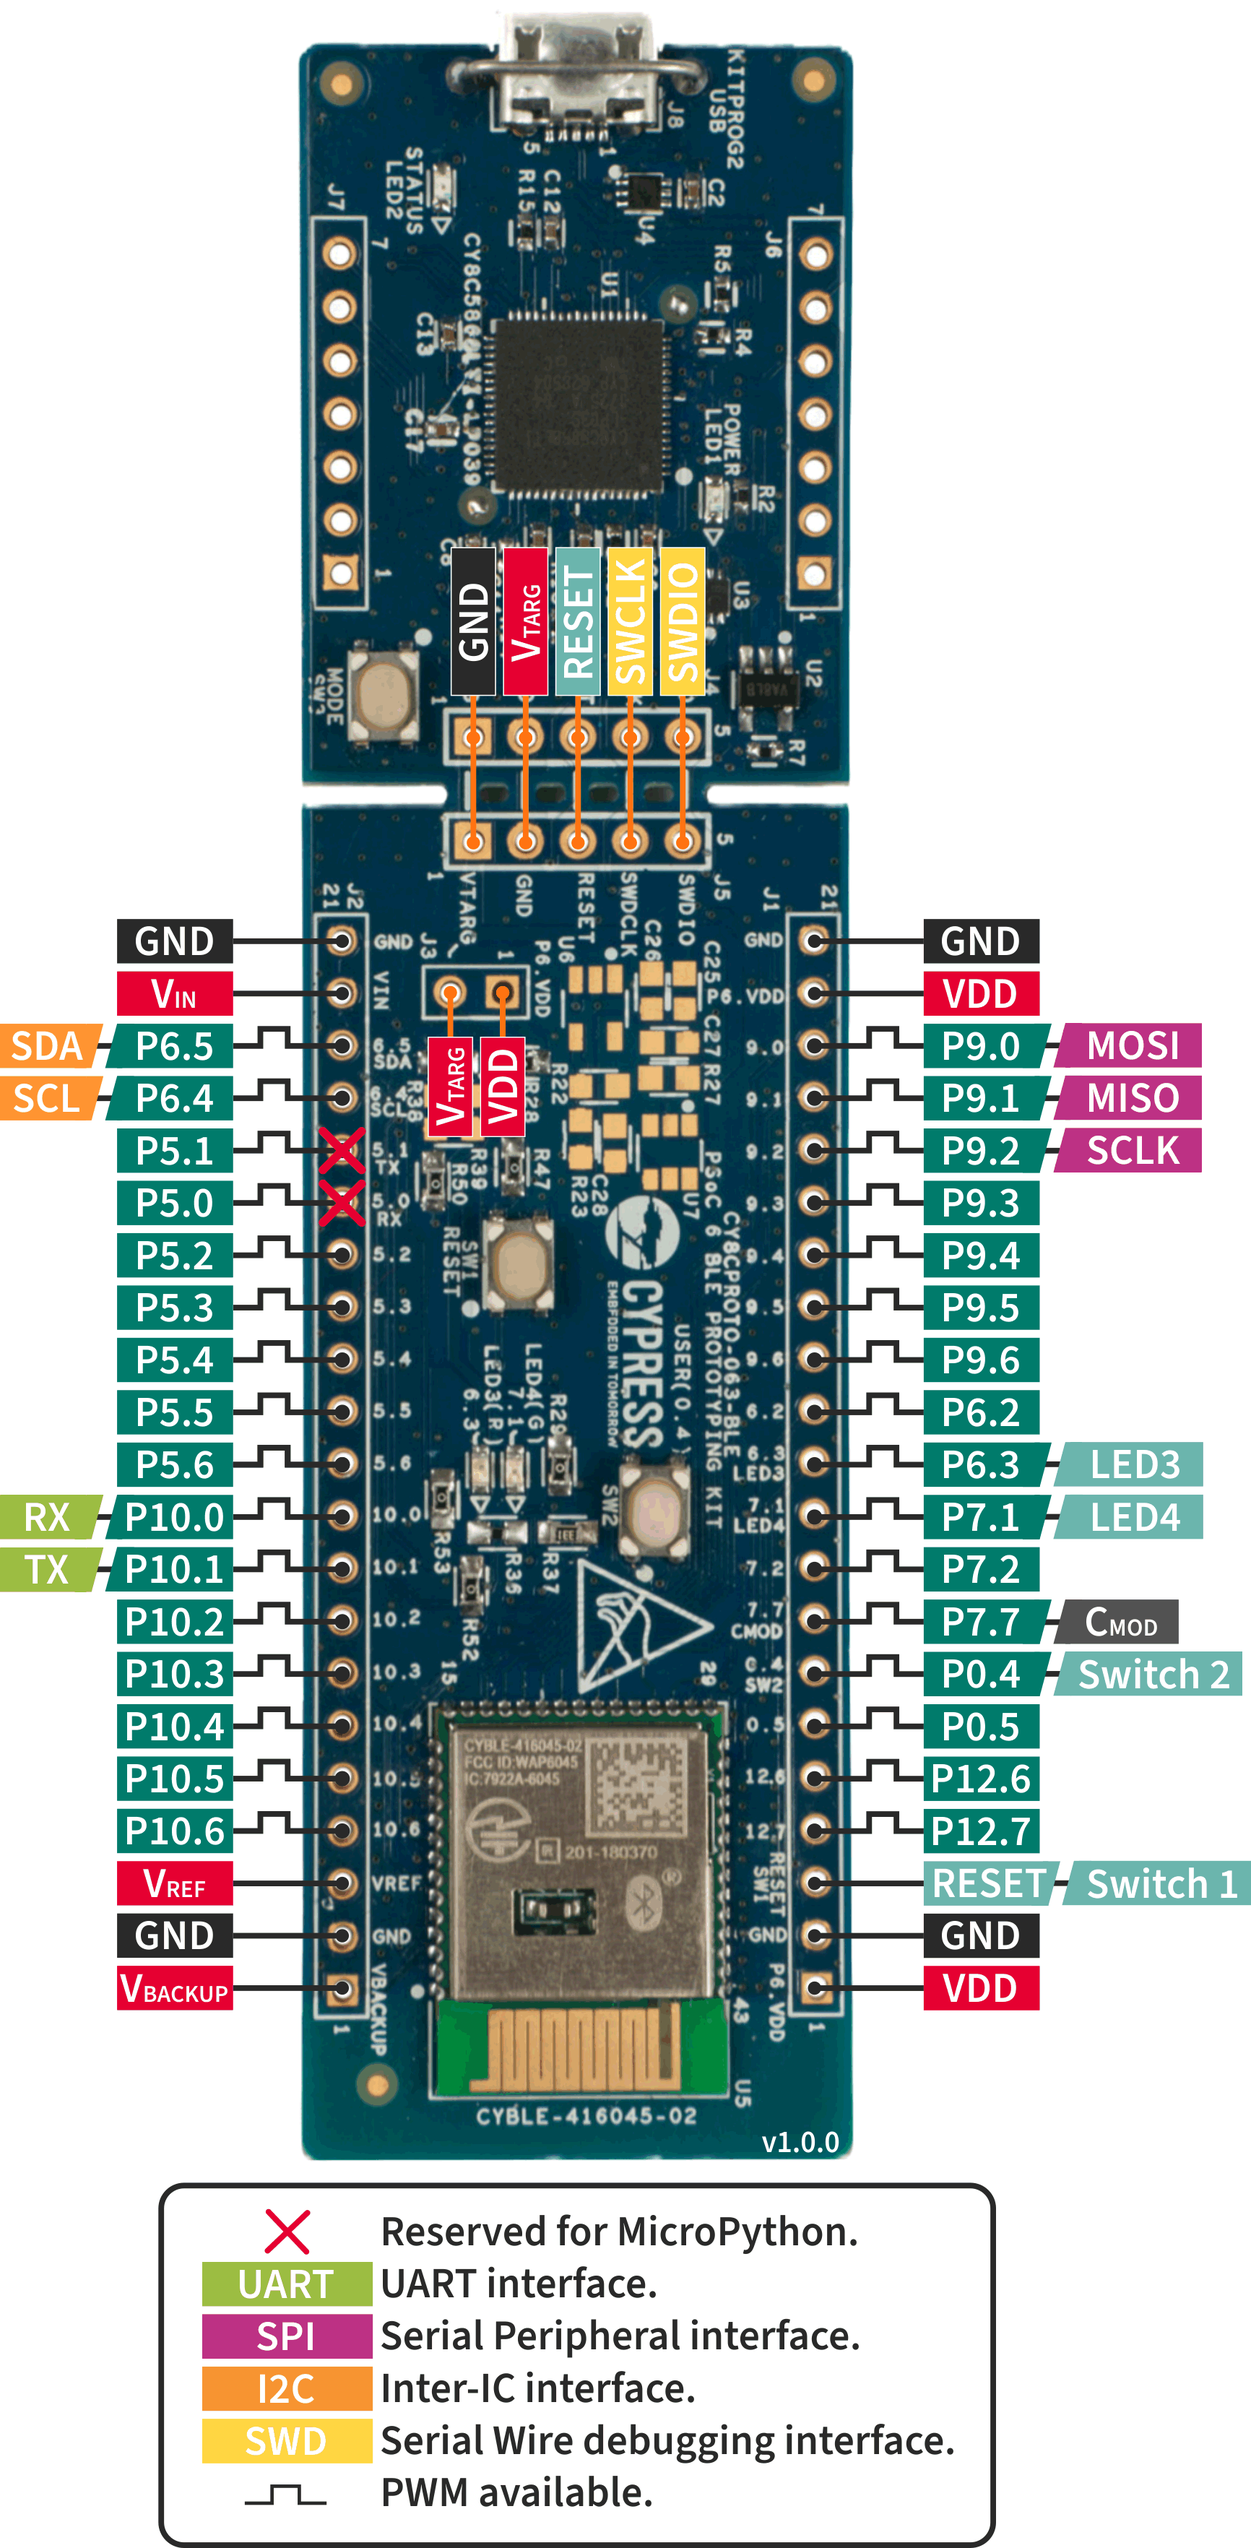
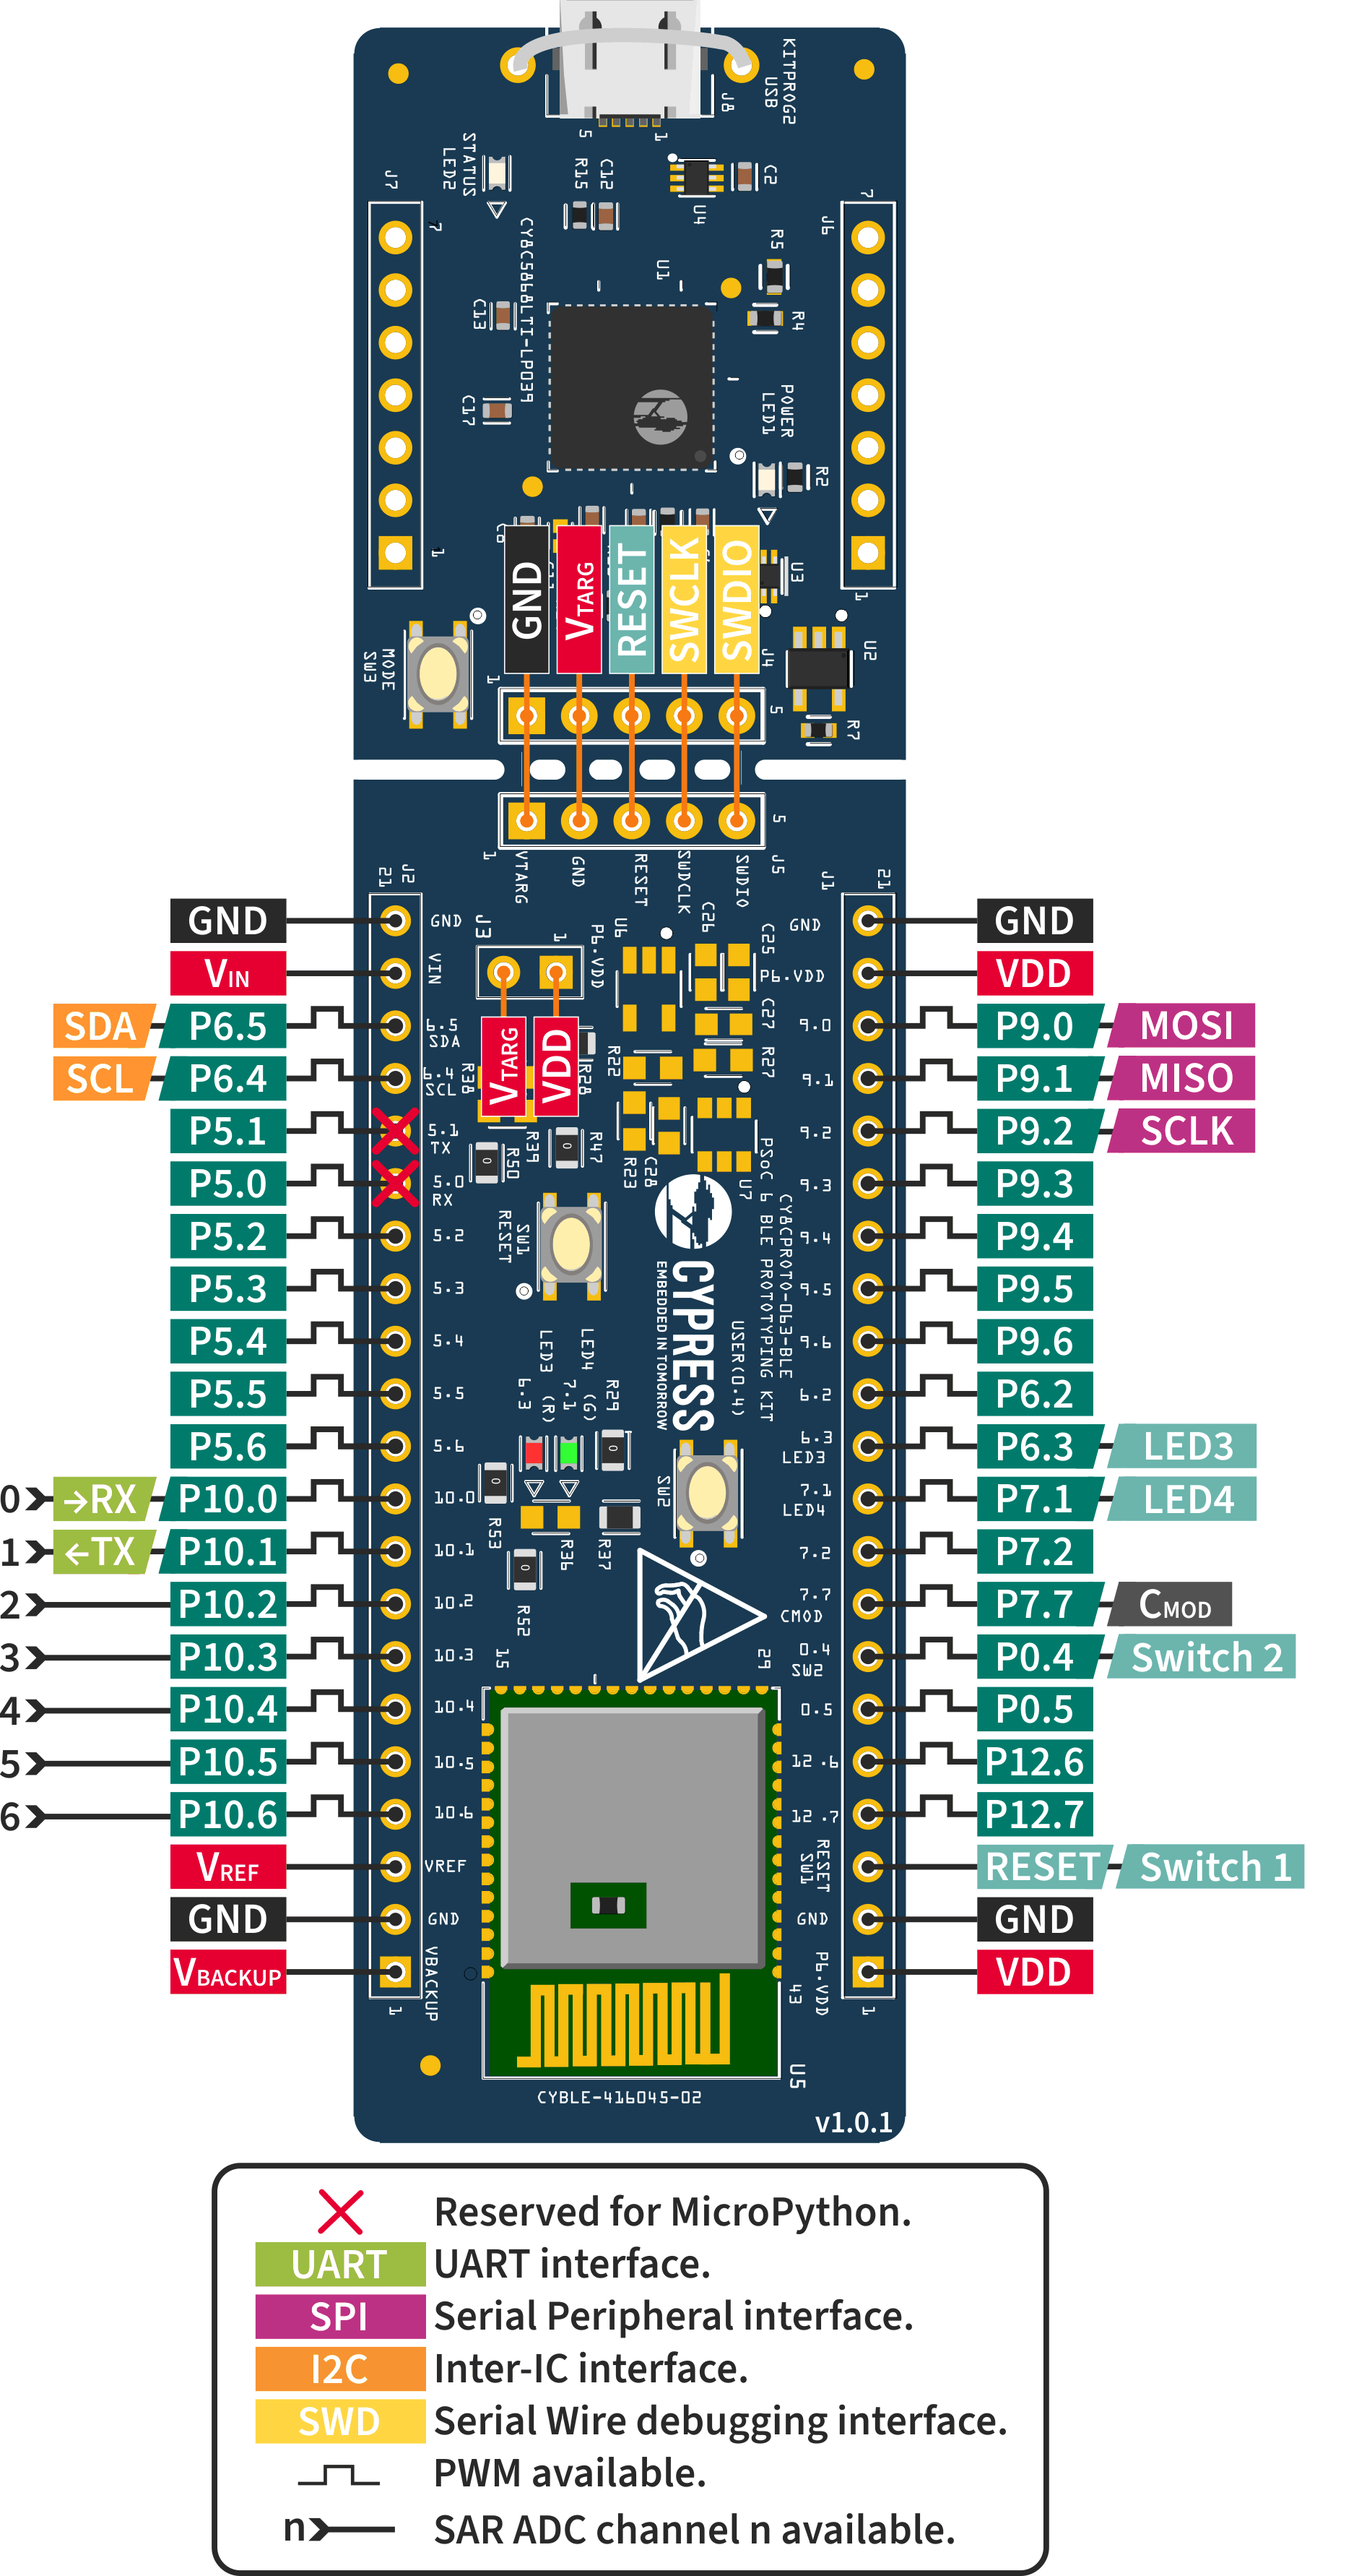
tests/ports/psoc6/hw_ext/pwm.py: Fix pwm pins.

diff --git a/tests/ports/psoc6/hw_ext/pwm.py b/tests/ports/psoc6/hw_ext/pwm.py
@@ -15,8 +15,8 @@ elif "CY8CPROTO-063-BLE" in board:
     pwm_pin = "P12_6"
     pin_in = "P12_7"
 elif "CY8CKIT-062S2-AI" in board:
-    pwm_pin = "P9_0"
-    pin_in = "P9_1"
+    pwm_pin = "P9_6"
+    pin_in = "P9_7"
 
 input_pin = Pin(pin_in, Pin.IN)
 
